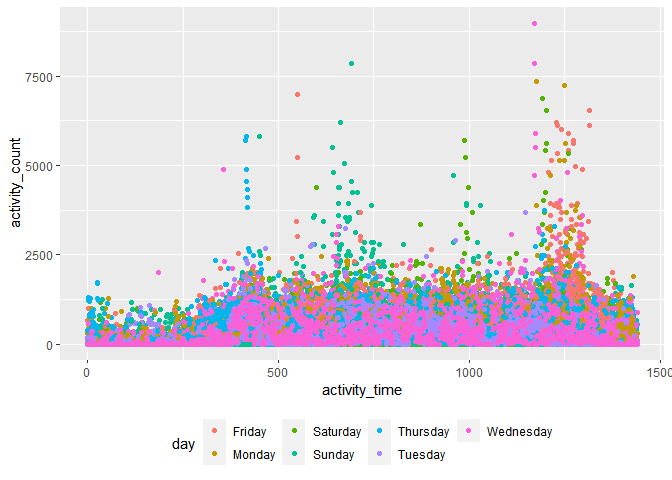
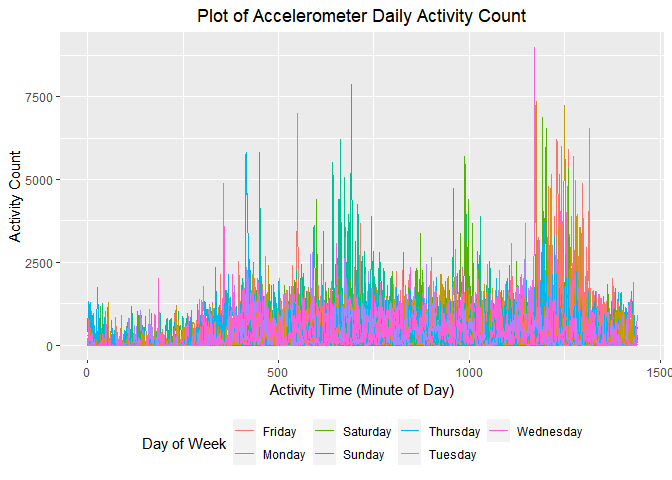
Loading and cleaning ny_noaa data

diff --git a/p8105_hw3_hw2852.md b/p8105_hw3_hw2852.md
@@ -190,18 +190,69 @@ accelerometer_data %>%
 
 \*\*\* Data description
 
-## 2.3 Plotting Daily Inspection Activity
+## 2.3 Plotting Accelerometer Daily Activity Count
+
+We can apply the `ggplot` function to generate a single-panel plot
+depicting the 24-hour activity time courses for each of the 35 days of
+observation. In the line graph below, each day of observation’s
+accelerometer activity count data is plotted against the corresponding
+minute of the day at which the reading was recorded, with the different
+colors delineating the day of the week.
 
 ``` r
 accelerometer_data %>% 
-  group_by(day_id, day, activity_time) %>% 
-  summarize(activity_count) %>% 
   ggplot(aes(x = activity_time, y = activity_count, color = day)) +
-  geom_point() +
-  theme(legend.position = "bottom")
+  geom_line(aes(group = day_id)) +
+  theme(
+    legend.position = "bottom", 
+    plot.title = element_text(hjust = 0.5)) +
+  labs(
+    title = "Plot of Accelerometer Daily Activity Count", 
+    x = "Activity Time (Minute of Day)", 
+    y = "Activity Count",
+    color = "Day of Week") 
 ```
 
-    ## `summarise()` has grouped output by 'day_id', 'day'. You can override using the
-    ## `.groups` argument.
-
 ![](p8105_hw3_hw2852_files/figure-gfm/unnamed-chunk-6-1.png)<!-- -->
+
+\*\*\* Data description
+
+# Problem 3
+
+This problem uses `NY NOAA` data. This data set will be loaded through
+the `p8105.datasets` library.
+
+``` r
+library(p8105.datasets)
+data("ny_noaa")
+```
+
+## 3.1 NY NOAA Data: Clean
+
+We will first tidy the `ny_noaa` data set. This process involves
+
+``` r
+ny_noaa %>% 
+  janitor::clean_names() %>% 
+  separate(col = date, into = c('year', 'month','day'), sep = '-') %>%
+  mutate(
+    prcp = prcp/10, 
+    tmax = as.numeric(tmax),
+    tmin = as.numeric(tmin),
+  )
+```
+
+    ## # A tibble: 2,595,176 × 9
+    ##    id          year  month day    prcp  snow  snwd  tmax  tmin
+    ##    <chr>       <chr> <chr> <chr> <dbl> <int> <int> <dbl> <dbl>
+    ##  1 US1NYAB0001 2007  11    01       NA    NA    NA    NA    NA
+    ##  2 US1NYAB0001 2007  11    02       NA    NA    NA    NA    NA
+    ##  3 US1NYAB0001 2007  11    03       NA    NA    NA    NA    NA
+    ##  4 US1NYAB0001 2007  11    04       NA    NA    NA    NA    NA
+    ##  5 US1NYAB0001 2007  11    05       NA    NA    NA    NA    NA
+    ##  6 US1NYAB0001 2007  11    06       NA    NA    NA    NA    NA
+    ##  7 US1NYAB0001 2007  11    07       NA    NA    NA    NA    NA
+    ##  8 US1NYAB0001 2007  11    08       NA    NA    NA    NA    NA
+    ##  9 US1NYAB0001 2007  11    09       NA    NA    NA    NA    NA
+    ## 10 US1NYAB0001 2007  11    10       NA    NA    NA    NA    NA
+    ## # … with 2,595,166 more rows
